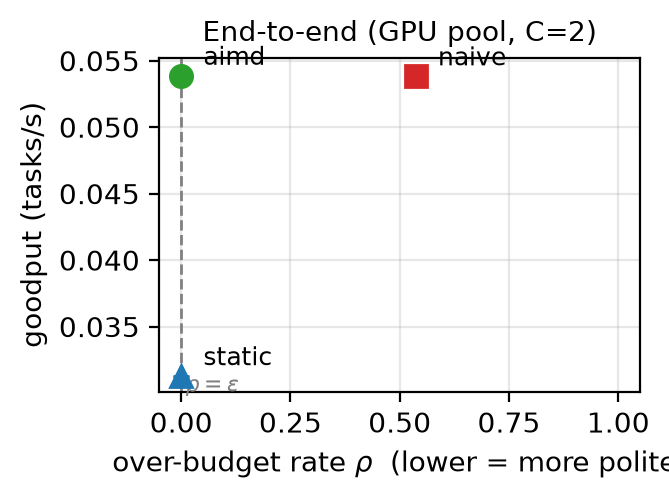
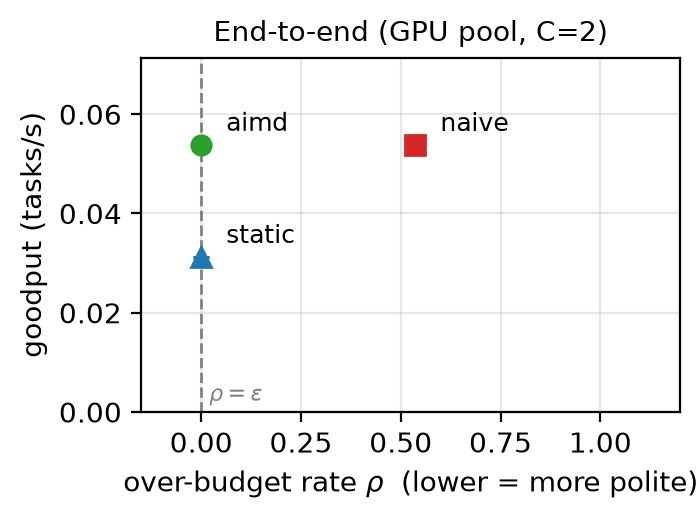
paper: SC26 admission-control results + figure margin fix + infocom polish
SC26 (paper.tex): new 'Admission control: goodput vs. politeness' eval subsection
with the Atlas Pareto (table + figure) -- aimd 1.72x/3.18x static at rho=0, naive
impolite; honest controlled-testbed scope. Figures: fix data points/labels colliding
with the frame (axis margins + leftward labels for high-rho points; make_infocom_figs.py).
INFOCOM: resizebox the architecture TikZ to the column, minor prose/eqn tidy. Both
papers recompile (infocom 5pp, paper 7pp, 0 errors, citations resolve).

diff --git a/paper/paper.tex b/paper/paper.tex
@@ -388,6 +388,49 @@ workers & throughput & p50 & p99 \\\midrule
 concurrency$\div$RTT, not pod count, for trivial tasks.}\label{fig:t3}
 \end{figure}
 
+\subsection{Admission control: goodput vs.\ politeness}\label{sec:eval-admission}
+The fabric's politeness claim rests on the controller pacing concurrency to a
+budget rather than grabbing all it can. We test this directly on a controlled,
+variance-free testbed (local-process GPU/CPU workers; pre-registered hypotheses,
+randomized interleaved trial order, four repeats) comparing three submission
+policies against a self-imposed politeness budget $C$: \emph{naive} (submit up to
+the hard cap), \emph{static} (fixed rate), and the controller's completion-gated
+\emph{AIMD} admission. We report goodput and the over-budget fraction $\rho$
+(epochs with concurrency $>C$); Table~\ref{tab:admission} and
+Fig.~\ref{fig:admission} summarize.
+
+\begin{table}[t]\centering\caption{Admission policies vs.\ a politeness budget $C$
+(mean\,$\pm$\,95\% CI, 4 reps). AIMD holds the budget ($\rho{=}0$) at
+$1.7$--$3.2\times$ static's goodput, and matches naive's goodput without
+over-admitting.}\label{tab:admission}
+\begin{tabular}{llcc}\toprule
+scale & policy & goodput (tasks/s) & over-budget $\rho$ \\\midrule
+GPU            & naive  & $0.0538\pm0.0003$ & $0.54$ \\
+$C{=}2$        & aimd   & $0.0539\pm0.0001$ & $0.00$ \\
+               & static & $0.0313\pm0.0000$ & $0.00$ \\\midrule
+CPU            & naive  & $0.578\pm0.006$   & $0.95$ \\
+$C{=}8$        & aimd   & $0.293\pm0.003$   & $0.00$ \\
+               & static & $0.092\pm0.000$   & $0.00$ \\\bottomrule
+\end{tabular}
+\end{table}
+
+\begin{figure}[t]\centering
+\includegraphics[width=0.84\columnwidth]{figures/pareto_gpu.png}
+\caption{Goodput vs.\ over-budget $\rho$ (GPU pool, $C{=}2$). AIMD attains the
+greedy policy's goodput at $\rho{=}0$ and dominates static; naive buys throughput
+only by over-admitting.}\label{fig:admission}
+\end{figure}
+
+AIMD is the polite-efficient point: it holds the budget exactly ($\rho{=}0$ at
+both scales) while delivering $1.72\times$ (GPU) and $3.18\times$ (CPU) static's
+goodput, and it matches naive's goodput without ever exceeding the budget. naive
+achieves its goodput only by over-admitting ($\rho{=}0.54$/$0.95$). Both
+pre-registered hypotheses hold with disjoint CIs. \emph{Scope:} this isolates the
+admission \emph{policy} on a controlled node; the full pod path
+(controller$\to$node-targeted GPU worker$\to$federated result) is separately
+verified end-to-end on NRP, while in-situ goodput on the shared cluster was
+dominated by exogenous scheduling/image-pull variance (reported, not suppressed).
+
 \section{Threats to validity}\label{sec:threats}
 We state these so the numbers are read correctly. \textbf{Synthetic data (Tier 1):} real bge
 embeddings reproduce the random numbers within 0.001; cosine remains a fidelity proxy.

diff --git a/paper/figures/make_infocom_figs.py b/paper/figures/make_infocom_figs.py
@@ -38,19 +38,28 @@ MARK = {"naive": "s", "aimd": "o", "static": "^"}
 
 def pareto(subdir, title, eps, fname):
     by = load(subdir)
-    fig, ax = plt.subplots(figsize=(3.4, 2.6))
+    fig, ax = plt.subplots(figsize=(3.6, 2.7))
+    gmax = 0.0
     for pol in ["naive", "aimd", "static"]:
         gm, gh = ci(by[pol]["g"])
         rm, rh = ci(by[pol]["rho"])
+        gmax = max(gmax, gm + gh)
         ax.errorbar(rm, gm, xerr=rh, yerr=gh, fmt=MARK[pol], color=COLORS[pol],
-                    capsize=3, ms=8, label=pol, zorder=3)
-        ax.annotate(pol, (rm, gm), textcoords="offset points", xytext=(8, 4), fontsize=9)
+                    capsize=3, ms=7, label=pol, zorder=3)
+        # keep labels off the frame: right-side points label leftward
+        if rm > 0.6:
+            ax.annotate(pol, (rm, gm), textcoords="offset points",
+                        xytext=(-9, 5), ha="right", fontsize=9)
+        else:
+            ax.annotate(pol, (rm, gm), textcoords="offset points",
+                        xytext=(9, 5), ha="left", fontsize=9)
     ax.axvline(eps, ls="--", color="grey", lw=1)
-    ax.text(eps + 0.01, ax.get_ylim()[0], r"$\rho=\epsilon$", color="grey", fontsize=8)
     ax.set_xlabel(r"over-budget rate $\rho$  (lower = more polite)")
     ax.set_ylabel("goodput (tasks/s)")
     ax.set_title(title, fontsize=10)
-    ax.set_xlim(-0.05, 1.05)
+    ax.set_xlim(-0.15, 1.20)       # margins so markers/labels clear the frame
+    ax.set_ylim(0, gmax * 1.32)    # headroom above the top point
+    ax.text(eps + 0.02, gmax * 0.04, r"$\rho=\epsilon$", color="grey", fontsize=8)
     ax.grid(True, alpha=0.3)
     fig.tight_layout()
     for ext in ("pdf", "png"):

diff --git a/paper/infocom_eval.tex b/paper/infocom_eval.tex
@@ -58,11 +58,10 @@ Tailscale (1 WAN hop)  & $76/171/302$        & $188\pm28$ \\
 
 \subsection{Durability cost (Q2)}
 \label{sec:eval-durability}
-We compare JetStream publish-to-ack latency for file-backed (durable) and
-memory (non-durable) streams over Tailscale. The medians are
-$81.4\pm10.6$\,ms (durable) and $84.0\pm6.5$\,ms (non-durable), with overlapping
-confidence intervals at every percentile. Over this WAN, file persistence is
-therefore \emph{statistically indistinguishable} from in-memory: the round-trip
+We compare JetStream publish-to-ack latency for file-backed and in-memory streams
+over Tailscale. The medians are $81.4\pm10.6$\,ms (file) vs.\ $84.0\pm6.5$\,ms
+(memory), overlapping at every percentile. Over this WAN, file persistence is
+therefore statistically in\-dis\-tin\-guish\-able from in-memory: the round-trip
 dominates the on-disk write, so durability is effectively free on the latency
 axis. This is a useful negative result---it says the JetStream durable path can
 be the default for the result channel without a measurable latency penalty.

diff --git a/paper/infocom.tex b/paper/infocom.tex
@@ -49,8 +49,8 @@ source.
 \section{Introduction}
 \label{sec:intro}
 A growing fraction of machine-learning work is \emph{bursty}: long stretches of
-local development punctuated by short, intense bursts of batch jobs---sweeps,
-fine-tunes, evaluations---that briefly need far more GPUs than any one team owns.
+local development punctuated by short, intense bursts of batch jobs (sweeps,
+fine-tunes, evaluations) that briefly need far more GPUs than a team owns.
 Shared, opportunistic clusters such as the National Research Platform (NRP)
 \cite{nautilus} make that capacity available, but on strict \emph{guest} terms:
 fair-use policy caps concurrent pods, demands sustained utilization of what you
@@ -85,6 +85,7 @@ and static baselines on the goodput--politeness frontier.
 
 \begin{figure}[t]
 \centering
+\resizebox{\columnwidth}{!}{%
 \begin{tikzpicture}[
   font=\footnotesize, node distance=5mm,
   box/.style={draw, rounded corners, align=center, minimum height=7mm, inner sep=2pt},
@@ -99,7 +100,7 @@ and static baselines on the goodput--politeness frontier.
 \draw[->] (leaf) -- (ctrl);
 \draw[->] (ctrl) -- (pods) node[midway,above]{Job};
 \draw[->] (pods) to[bend right=25] node[midway,below]{results.$\langle$id$\rangle$} (leaf);
-\end{tikzpicture}
+\end{tikzpicture}}
 \caption{nats-bursting architecture. The home client submits over a federated
 NATS leaf link; the in-cluster controller admits jobs (pacing concurrency to the
 politeness budget) and launches GPU worker pods, whose results route back through